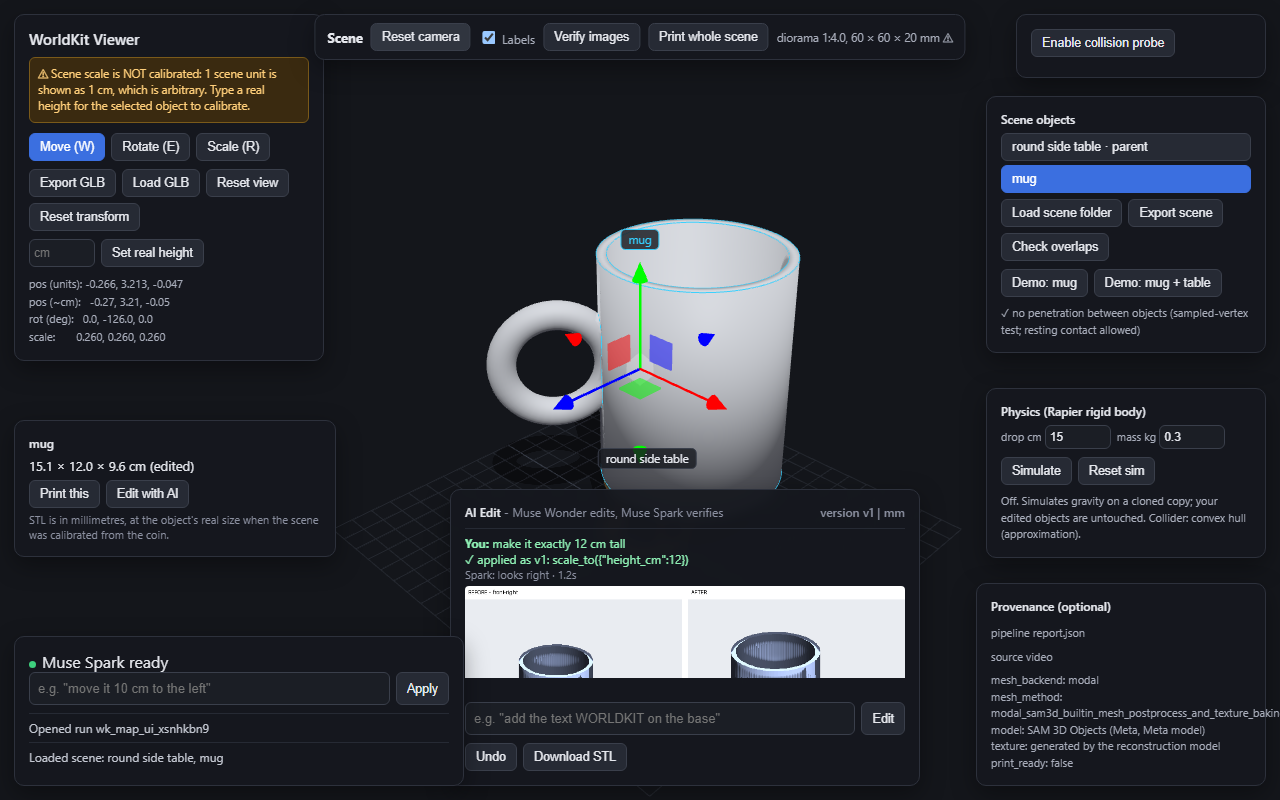
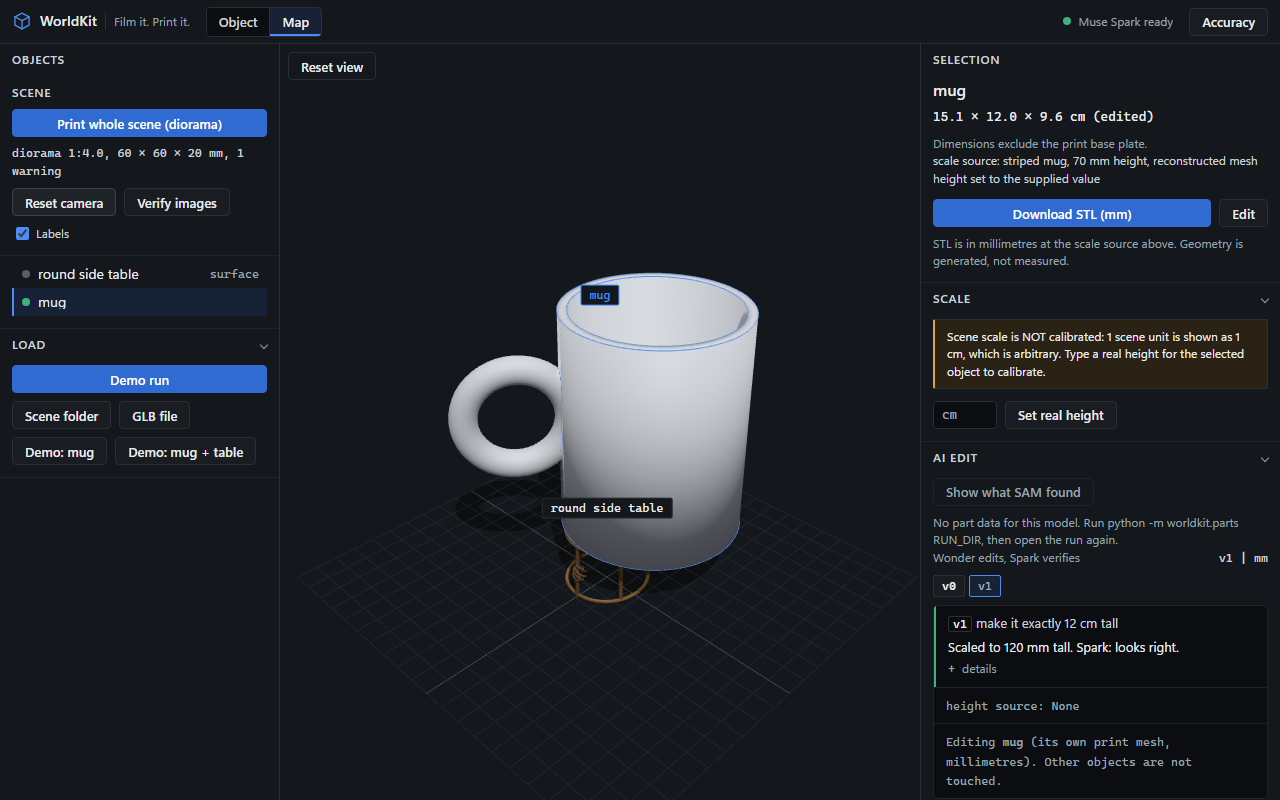
Deploy web app to Vercel, live-site test, docs

diff --git a/CLAUDE.md b/CLAUDE.md
@@ -44,7 +44,7 @@ Working and verified on the mug video: video -> frames -> Muse Spark -> SAM 3.1 
 
 **Viewer UI (2026-11-02, spec in `docs/design-spec.md`, tokens in `viewer/assets/tokens.css`, styles `viewer/assets/app.css`):** the floating panels became a shell: top bar (wordmark, Object | Map, status, Accuracy), objects list, viewport, inspector; narrow screens get a bottom sheet. Only tokens are used for colour and size (blue accent, mono numbers, no emoji; log prefixes are now "OK:" / "FAILED:"). The canvas now fills its grid cell, not the window (tests use canvas-relative positions). Object view shows mm dimensions, scale source and "Download STL (mm)" (autoload now returns `stl`). Accuracy view renders `viewer/assets/demo/accuracy.md` (copy of `docs/accuracy.md`; refresh it when you regenerate the table). `node viewer/tests/ui_screens.js` writes `docs/ui/*.png` at 1440 and 390 px. Figma was not available; the light theme is untested. **Parts (2026-11-02):** `python -m worldkit.parts RUN_DIR` asks SAM 3.1 for a part (default mug handle) in each fitted frame and votes it onto the mesh vertices (mug run: 11 of 12 views, 272 vertices, GLB-to-STL alignment 0.03 mm); `parts/parts.json` feeds the viewer's "Show what SAM found" overlay and the AI Edit tool `thicken_part` (surface moves out by by_mm/2, fading out 2-4.5 mm from the part; log row is a sentence with the view count). The vote is grown along the mesh over the whole protruding handle (stops at the body wall). **Live part edits (real Wonder + Spark, mug run, 2026-11-02; `scripts/part_edit_live.py`, results in `pipeline/runs/part_live/results.json`):** "make the handle thicker" and "...2 mm thicker" both picked `thicken_part` (default 2 mm), Spark accepted, handle wall 6.9 -> 9.4 mm, body unchanged (0.0 mm deviation); "...thinner" got a refusal with no tool (the tool only thickens). Under 50% SAM view coverage the tool refuses with a sentence. Viewer UI step 2: inspector order Selection, Scale, AI Edit, Advanced (closed: transform, move by text, physics, overlaps, provenance); gizmo hidden until Move/Rotate/Scale; scenes frame the objects, not the table; "Demo run" loads the tracked coin-scaled mug / desk run (`viewer/assets/demo/run_mug`, `run_desk`); edit log rows are plain sentences with the tool JSON under "details"; base type 14/13/12 px.
 
-**Web app + worker (2026-11-02):** `web/` (Vite, supabase-js, hash routes, PWA; reuses `viewer/assets/tokens.css`) = home, sign in, new project (phone upload with progress), projects list (Realtime + 8 s polling), viewer in an iframe of `/viewer/` fed signed URLs by postMessage (the viewer now has `?embed=1`, `?demo=1`, relative paths, `PROJECT_BASE` fetch/download resolver). `supabase/migrations/` = `projects` table + RLS + private `videos`/`results` buckets (first folder = user id) + Realtime; `supabase/RUN_THIS_IN_SQL_EDITOR.sql` is the same SQL. `python -m worldkit.worker [--once] [--dry-run]` (REST, signs in as WORKER_EMAIL/WORKER_PASSWORD from gitignored `pipeline/.env`, publishable key only, no service key) claims `uploaded` projects, runs object/scene, uploads results, sets done/failed. The web app never runs the pipeline. `thicken_part` now accepts negative `by_mm` (thinner; refused below a 1.2 mm wall). Tests: `pipeline/tests/test_worker.py` (fake backend), `web/tests/lib.test.js`, `web/tests/e2e_mock.mjs` (mocked Supabase, PWA installability). Deploy: root `vercel.json`, `docs/DEPLOY.md`. **Real Supabase verified (2026-11-02, `node web/tests/e2e_real.mjs`, 19/19; project `ttetqcbvyqleyxyryspx`, migration applied, email confirmation is ON so new accounts must be confirmed):** real sign-in, 3.4 MB upload with progress, private buckets and RLS (anonymous sees nothing), Realtime live, worker `--once --dry-run` took uploaded -> processing -> done, viewer opened it via signed URLs, delete removed row and files. The dry run publishes the tracked DEMO mug, so the viewer shows the demo model, not the uploaded video; the real pipeline through the worker has not been run on this path. Screenshots in `docs/web/`. Vercel deploy not done (CLI missing, `docs/DEPLOY.md`).
+**Web app + worker (2026-11-02):** `web/` (Vite, supabase-js, hash routes, PWA; reuses `viewer/assets/tokens.css`) = home, sign in, new project (phone upload with progress), projects list (Realtime + 8 s polling), viewer in an iframe of `/viewer/` fed signed URLs by postMessage (the viewer now has `?embed=1`, `?demo=1`, relative paths, `PROJECT_BASE` fetch/download resolver). `supabase/migrations/` = `projects` table + RLS + private `videos`/`results` buckets (first folder = user id) + Realtime; `supabase/RUN_THIS_IN_SQL_EDITOR.sql` is the same SQL. `python -m worldkit.worker [--once] [--dry-run]` (REST, signs in as WORKER_EMAIL/WORKER_PASSWORD from gitignored `pipeline/.env`, publishable key only, no service key) claims `uploaded` projects, runs object/scene, uploads results, sets done/failed. The web app never runs the pipeline. `thicken_part` now accepts negative `by_mm` (thinner; refused below a 1.2 mm wall). Tests: `pipeline/tests/test_worker.py` (fake backend), `web/tests/lib.test.js`, `web/tests/e2e_mock.mjs` (mocked Supabase, PWA installability). Deploy: root `vercel.json`, `docs/DEPLOY.md`. **Real Supabase verified (2026-11-02, `node web/tests/e2e_real.mjs`, 19/19; project `ttetqcbvyqleyxyryspx`, migration applied, email confirmation is ON so new accounts must be confirmed):** real sign-in, 3.4 MB upload with progress, private buckets and RLS (anonymous sees nothing), Realtime live, worker `--once --dry-run` took uploaded -> processing -> done, viewer opened it via signed URLs, delete removed row and files. The dry run publishes the tracked DEMO mug, so the viewer shows the demo model, not the uploaded video; the real pipeline through the worker has not been run on this path. Screenshots in `docs/web/`. **Deployed (2026-11-02): https://web-flame-psi-45.vercel.app** (Vercel team no6-name8, project `web`, root directory = repo root; env vars VITE_SUPABASE_URL / VITE_SUPABASE_PUBLISHABLE_KEY set for production; `node web/tests/e2e_live.mjs` 8/8: home, demo viewer, real sign-in to the projects list, service worker). Deploy method that worked: build `web/` locally, copy `web/dist` to `.vercel/output/static` with a Build Output `config.json`, `vercel deploy --prebuilt --prod` (a source upload timed out, and `vercel build` fails on Windows because `npm ci` hits file locks; see `docs/DEPLOY.md`). Supabase Site URL / Redirect URL must be set to the live URL by hand (not done).
 
 Measured facts worth knowing (details in `docs/TECHNICAL_NOTES.md` and `pipeline/runs/fidelity_round1/`):
 - SAM 3D mug geometry is good (watertight, loop handle, level circular rim: planarity 0.9% of radius, 0.26 deg vs base); TRELLIS is lumpier with an uneven rim. All geometry is generated, not measured.

diff --git a/docs/DEPLOY.md b/docs/DEPLOY.md
@@ -26,6 +26,20 @@ vercel env add VITE_SUPABASE_PUBLISHABLE_KEY production
 vercel --prod
 ```
 
+## Prebuilt deploy (what worked from Windows)
+
+`vercel --prod` uploads every source file and timed out here, and `vercel build` fails when `npm ci` hits locked files. This works: build locally, then deploy the output.
+
+```powershell
+npm --prefix web run build
+# copy web/dist to .vercel/output/static and write .vercel/output/config.json:
+#   {"version":3,"routes":[{"src":"/sw.js","headers":{"cache-control":"no-cache"},"continue":true},
+#     {"src":"/manifest.webmanifest","headers":{"content-type":"application/manifest+json"},"continue":true},{"handle":"filesystem"}]}
+vercel deploy --prebuilt --prod --token $env:VERCEL_TOKEN
+```
+
+The build must run with `web/.env.local` present (the Supabase values are baked into the bundle). Stop any running `vite preview` first, or `npm ci` fails on locked files.
+
 ## Notes
 
 - Hash routing (`#/projects`), so no rewrite rules are needed.

diff --git a/README.md b/README.md
@@ -59,6 +59,8 @@ cd ..\pipeline
 
 Deployment steps are in `docs/DEPLOY.md`. Limits: the free Supabase plan refuses single files over 50 MB (the app says so before uploading; film about 20 seconds); the hosted viewer has no edit server, so AI Edit needs `python -m worldkit.serve` on the laptop.
 
+**Live: https://web-flame-psi-45.vercel.app** (sign in with an account on the Supabase project; processing still needs the laptop worker).
+
 Verified against a real Supabase project with `node web/tests/e2e_real.mjs` (sign in, upload, live status, worker dry run, viewer, delete). The dry run publishes the demo mug, so that run shows the demo model, not the uploaded video. Screenshots: `docs/web/`.
 
 Planned (not built): uploads over 50 MB (resumable), processing without a laptop, push notification when a project finishes, AI Edit from the hosted viewer, sharing a project with another account, a worker that subscribes instead of polling.
